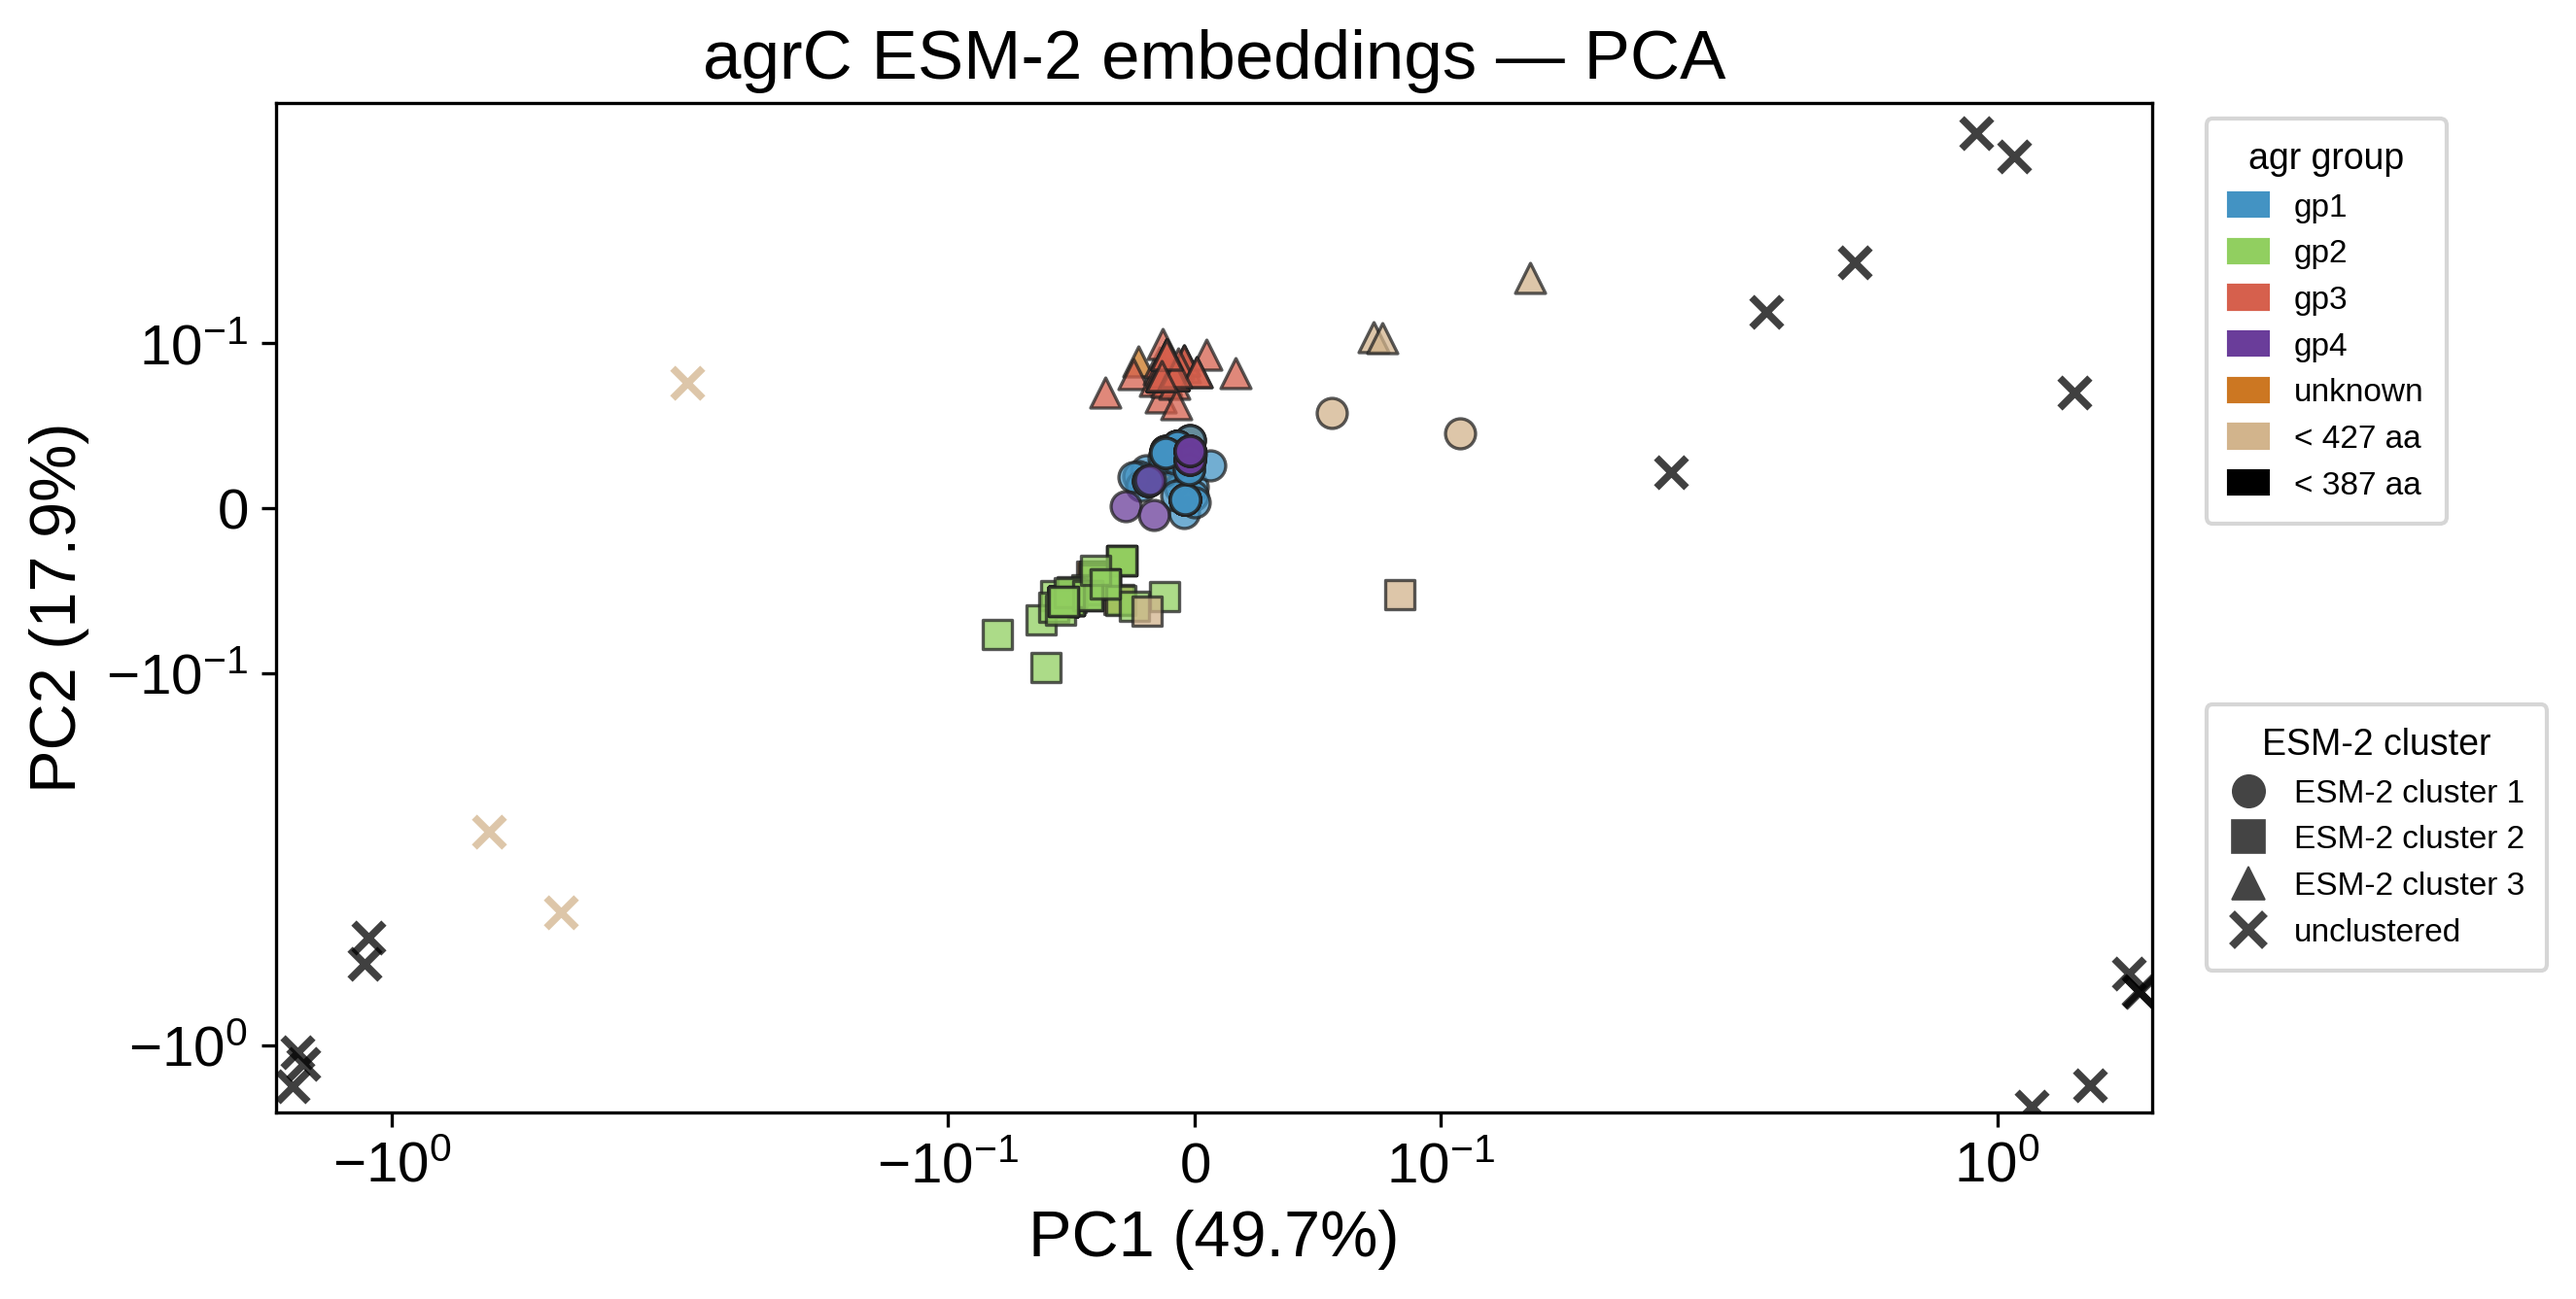
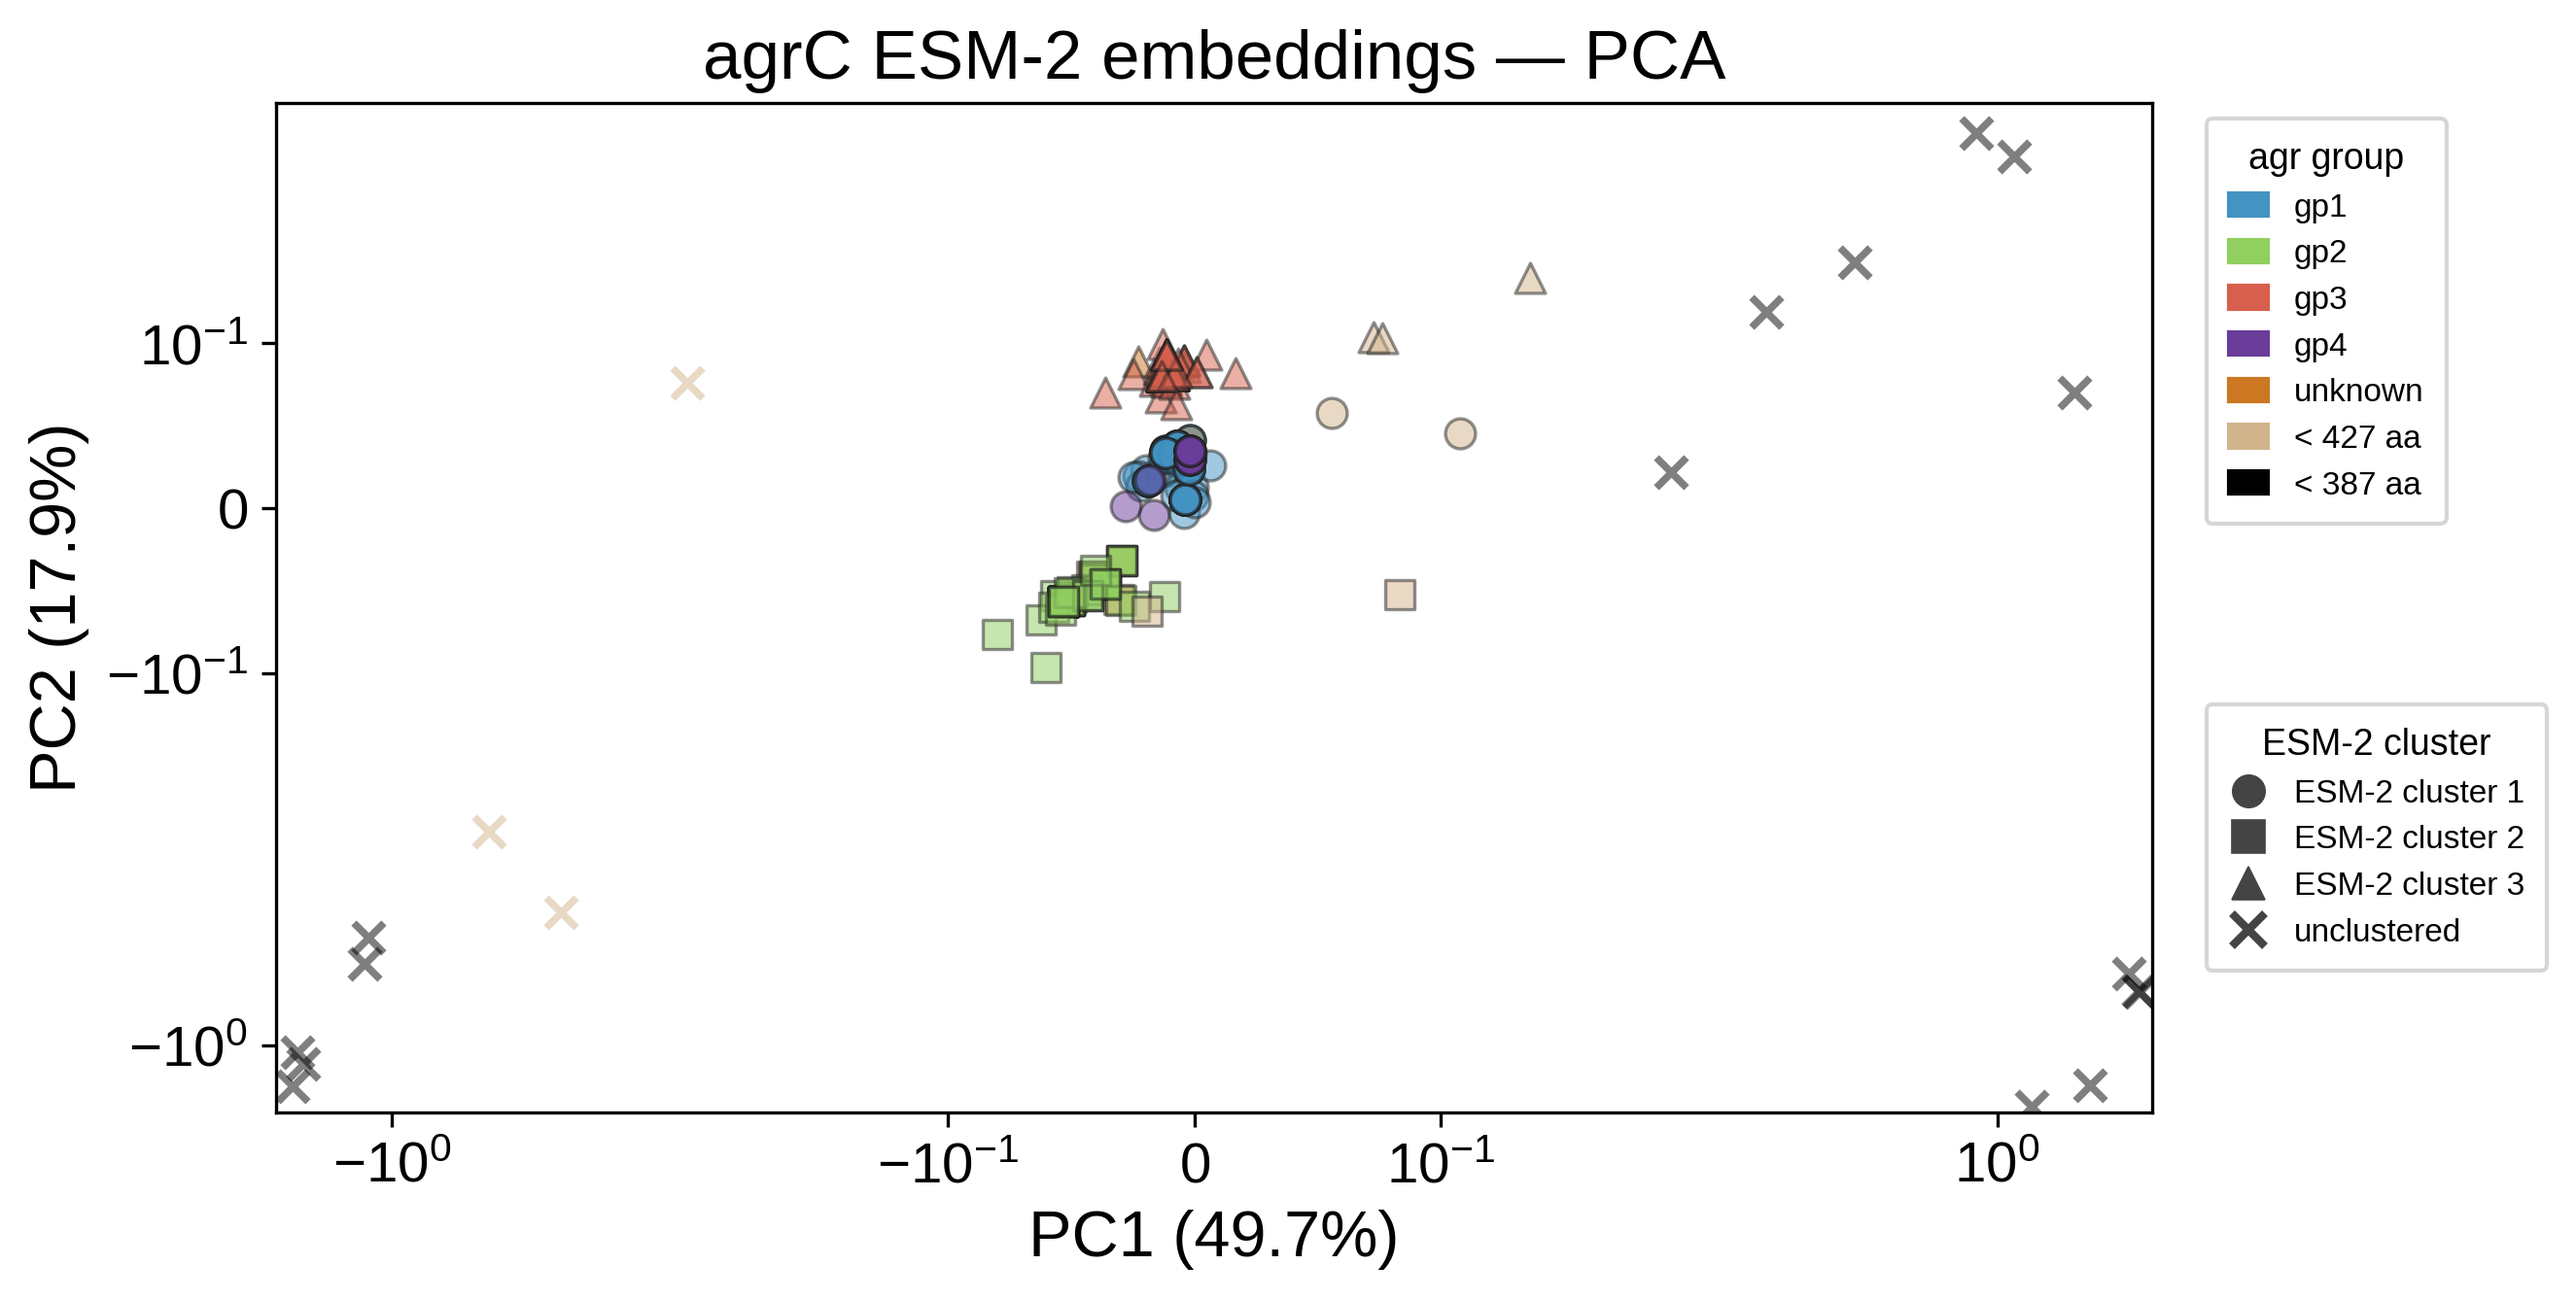
Set alpha to 0.5

diff --git a/agrc_esm_single.py b/agrc_esm_single.py
@@ -138,7 +138,7 @@ for agr in agr_order:
         ax.scatter(subsub["pc1"], subsub["pc2"],
                    c=p1_colors[agr],
                    marker=cluster_markers[clust],
-                   s=55, alpha=0.75,
+                   s=55, alpha=0.5,
                    linewidths=1.8 if clust == "unclustered" else 0.8,
                    edgecolors=p1_colors[agr] if clust == "unclustered" else "#222222",
                    zorder=zord)
